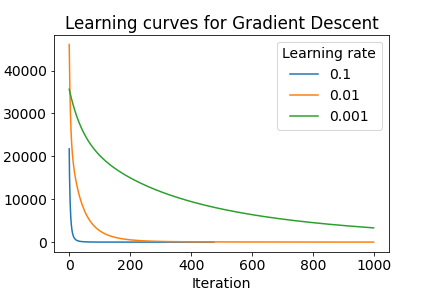
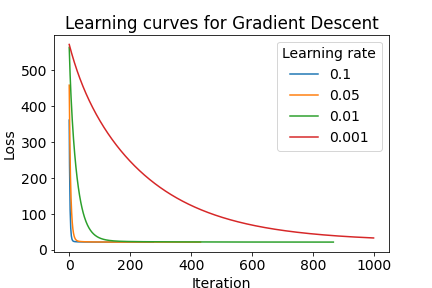
Updating verbose prints and initial weight values

diff --git a/ex2.py b/ex2.py
@@ -69,6 +69,7 @@ class Normalizer:
 
 
 class OlsGd(Ols):
+
     def __init__(self, learning_rate=.05,
                  num_iteration=1000,
                  normalize=True,
@@ -85,24 +86,25 @@ class OlsGd(Ols):
         self.loss_history = None
 
     def _fit(self, X, Y, reset=True, track_loss=True):
-        # remember to normalize the data before starting
+        # remeber to normalize the data before starting
         X0 = X  # Saving the original X
         if self.normalize:
             self.normalizer.fit(X)
             X = self.normalizer.predict(X)
         pad_X = self.pad(X)
-        self.w = np.random.randint(100, size=pad_X.shape[1])  # Random initial weights
-        w0 = np.random.randint(100, size=pad_X.shape[1])  # Random initial weights
+        self.w = np.random.rand(pad_X.shape[1])  # Random initial weights
+        w0 = np.ones(pad_X.shape[1])  # Initial weights of 1 - represents the last step
         i = 0
         self.loss_history = []
         while not self._should_stop_func(i, w0):
             w0 = self.w  # The previous step w, for early stop
             self._step(pad_X, Y)
-            i += 1
             loss = self.score(X0, Y)  # Computing the loss
-            self.loss_history.append(loss)
-            if self.verbose:
+            if track_loss:
+                self.loss_history.append(loss)
+            if self.verbose and ((i % 10) == 0):  # Print the 10th iteration
                 print(f'Iteration {i} error: {loss}')
+            i += 1
         if self.verbose:
             print(f'Final step: iteration: {i} Error: {self.score(X0, Y)}')
         return self.w
@@ -116,7 +118,6 @@ class OlsGd(Ols):
     def _predict(self, X):
         if self.normalize:
             X = self.normalizer.predict(X)
-        # pred_y = np.dot(X, self.w)
         pred_y = super()._predict(X)
 
         return pred_y
